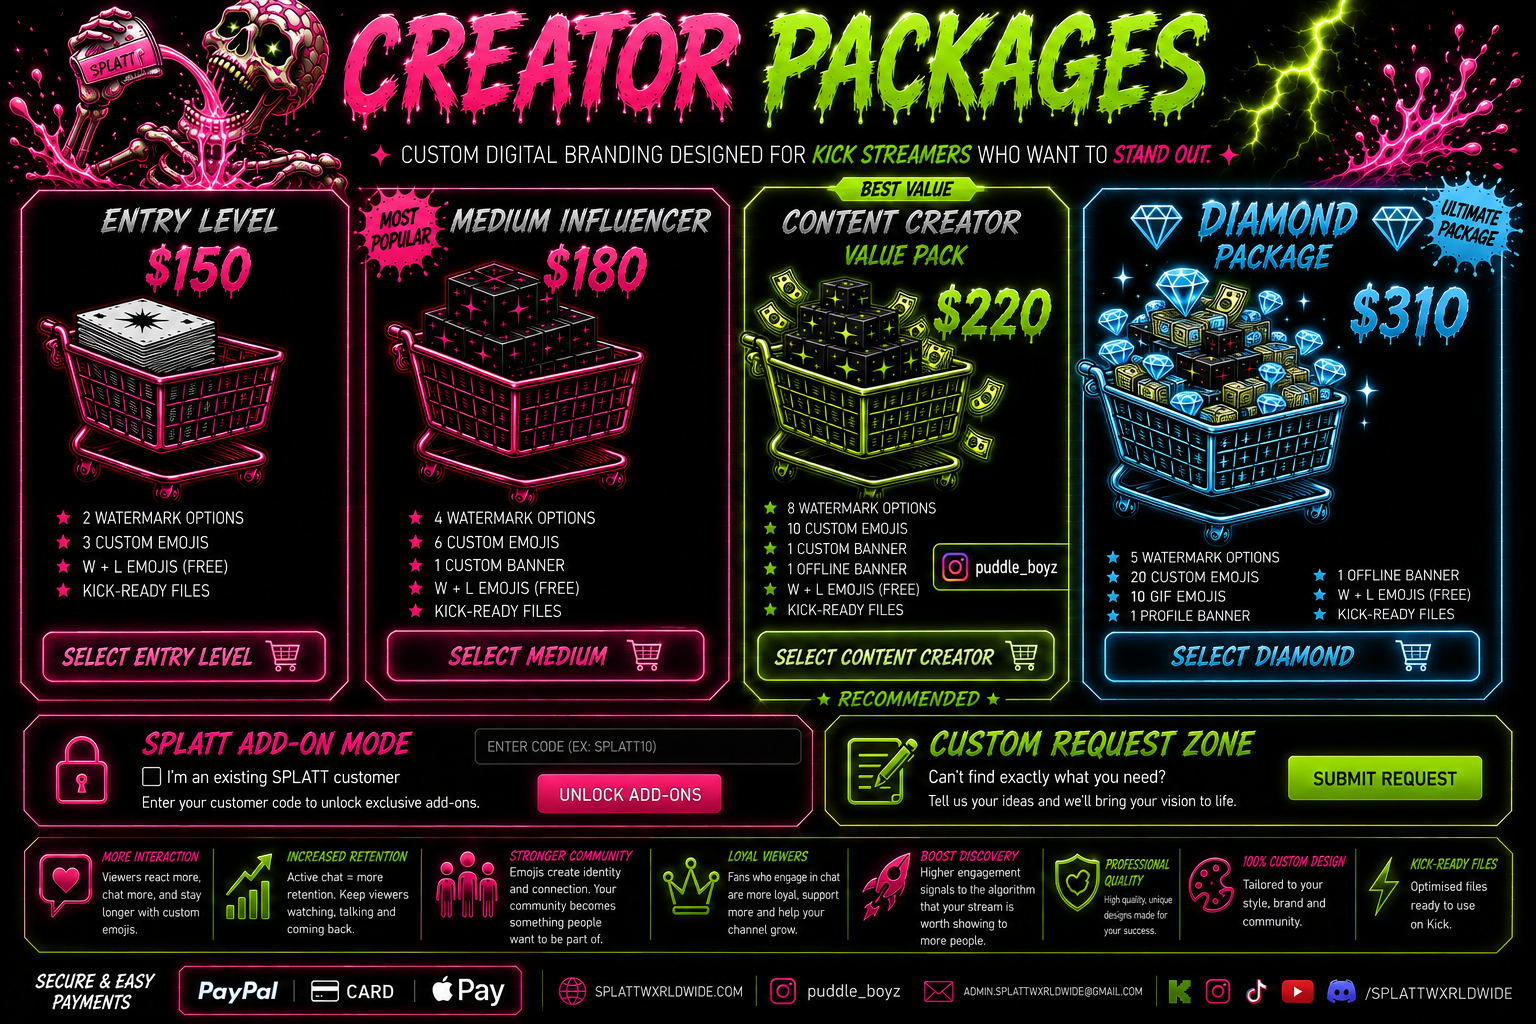
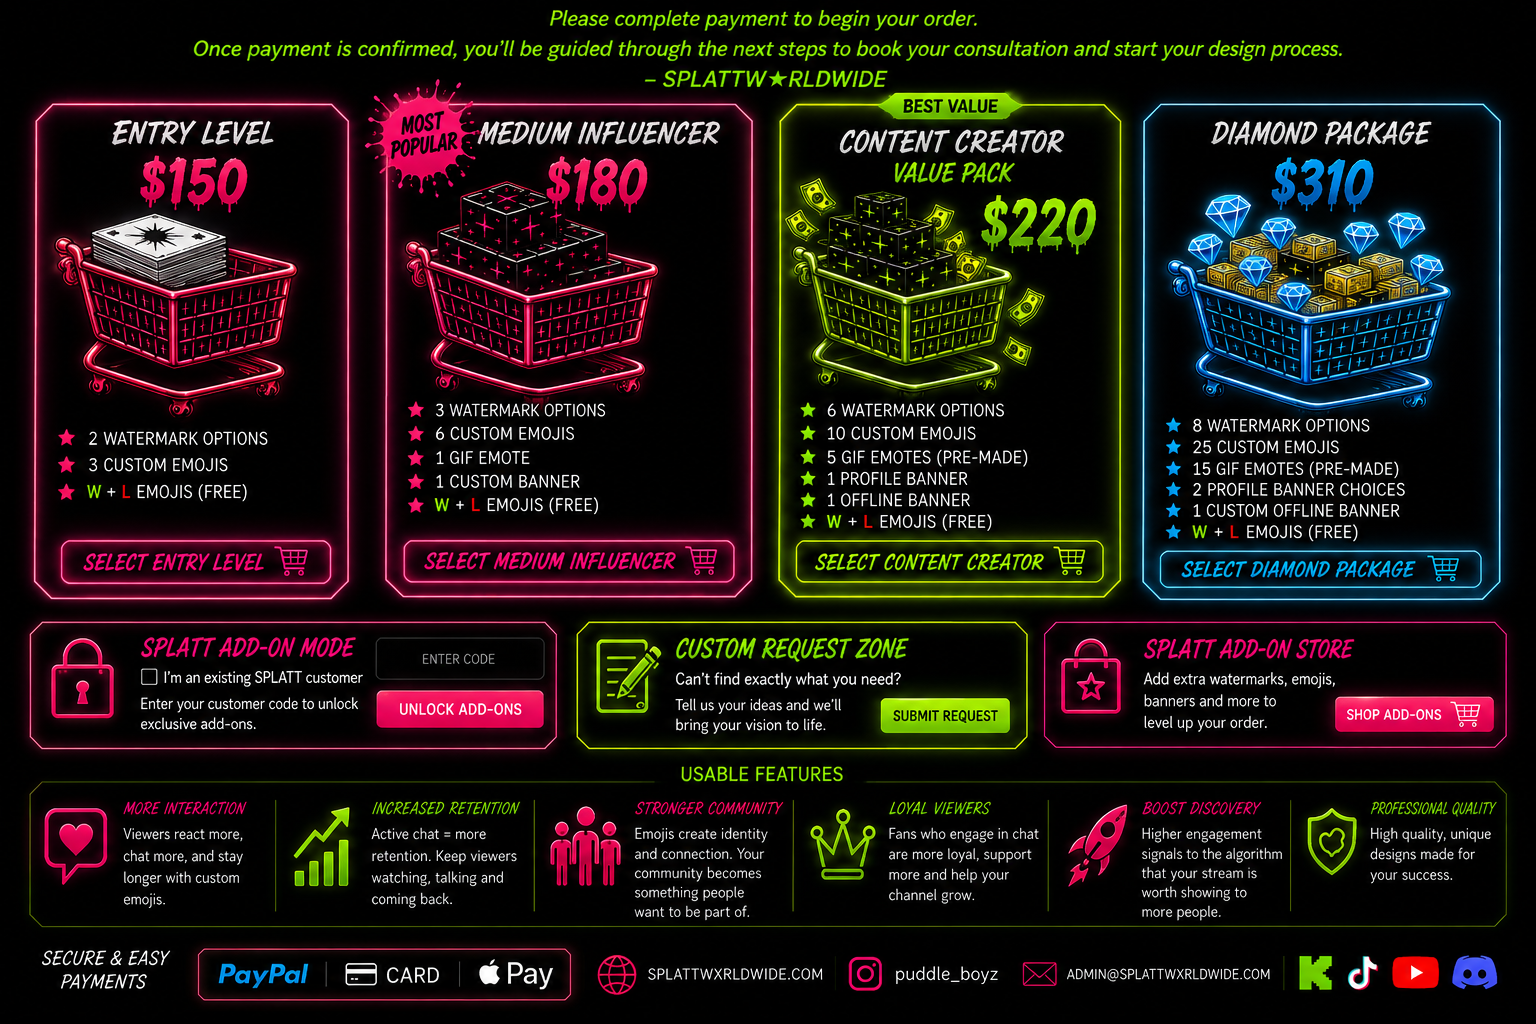
Add files via upload

diff --git a/index.html b/index.html
@@ -11,18 +11,30 @@ body:before{content:"";position:fixed;inset:0;pointer-events:none;opacity:.2;bac
 .wrapper{width:min(1500px,100%);margin:auto;padding:18px 14px 50px}
 .package-stage{position:relative;width:100%;line-height:0;isolation:isolate}
 .package-art{display:block;width:100%;height:auto;object-fit:contain;object-position:center;user-select:none;-webkit-user-drag:none}
-.hotspot{position:absolute;top:21%;height:42%;border:2px solid transparent;border-radius:16px;background:transparent;cursor:pointer;transition:box-shadow .18s ease,background .18s ease,border-color .18s ease,filter .18s ease,transform .18s ease;z-index:3}
+.hotspot{position:absolute;top:10.3%;height:48.4%;border:2px solid transparent;border-radius:16px;background:transparent;cursor:pointer;transition:box-shadow .18s ease,background .18s ease,border-color .18s ease,filter .18s ease,transform .18s ease;z-index:3}
 .hotspot:focus-visible{outline:3px solid #fff;outline-offset:3px}
-.hotspot.entry{left:2.3%;width:23.1%;--accent:var(--pink)}
-.hotspot.medium{left:26.3%;width:23.1%;--accent:var(--pink)}
-.hotspot.creator{left:50.4%;width:23.1%;--accent:var(--green)}
-.hotspot.diamond{left:74.5%;width:23.1%;--accent:var(--blue)}
+.hotspot.entry{left:2.25%;width:20.55%;--accent:var(--pink)}
+.hotspot.medium{left:24.95%;width:24.15%;--accent:var(--pink)}
+.hotspot.creator{left:50.65%;width:22.55%;--accent:var(--green)}
+.hotspot.diamond{left:74.45%;width:23.35%;--accent:var(--blue)}
 .hotspot:hover{border-color:color-mix(in srgb,var(--accent) 60%,transparent);background:color-mix(in srgb,var(--accent) 7%,transparent);box-shadow:0 0 16px var(--accent),0 0 42px color-mix(in srgb,var(--accent) 55%,transparent);filter:brightness(1.08)}
-.hotspot.selected{border-color:var(--accent);background:color-mix(in srgb,var(--accent) 13%,transparent);box-shadow:0 0 14px var(--accent),0 0 35px var(--accent),inset 0 0 28px color-mix(in srgb,var(--accent) 28%,transparent);filter:brightness(1.16);transform:translateY(-2px)}
+.hotspot.selected{border-color:var(--accent);background:color-mix(in srgb,var(--accent) 13%,transparent);box-shadow:0 0 14px var(--accent),0 0 35px var(--accent),inset 0 0 28px color-mix(in srgb,var(--accent) 28%,transparent);filter:brightness(1.16)}
 .hotspot.selected:after{content:"✓ SELECTED";position:absolute;left:50%;bottom:2%;transform:translateX(-50%);padding:9px 13px;border-radius:999px;background:#050505;color:var(--accent);border:1px solid var(--accent);font:bold 12px/1 Arial;white-space:nowrap;box-shadow:0 0 16px var(--accent)}
 .checkout{display:none;margin:20px auto 0;max-width:760px;padding:22px;border:1px solid rgba(255,255,255,.16);border-radius:18px;background:rgba(8,8,8,.94);text-align:center;box-shadow:0 0 30px rgba(255,45,178,.1)}
 .checkout.visible{display:block}.checkout h2{margin:0 0 8px;font-size:clamp(20px,4vw,30px)} .checkout .chosen{color:#ddd;margin-bottom:18px}.payment-row{display:grid;grid-template-columns:repeat(3,1fr);gap:10px}.pay{border:1px solid #555;border-radius:12px;background:#111;color:#fff;padding:14px 10px;font-weight:900;cursor:pointer;transition:.18s}.pay:hover{border-color:var(--green);box-shadow:0 0 16px rgba(57,255,20,.35)}.pay[disabled]{opacity:.45;cursor:not-allowed}.note{font-size:12px;color:#aaa;margin:14px 0 0;line-height:1.5}
-@media(max-width:700px){.wrapper{padding:8px 4px 30px}.hotspot{top:21%;height:42%;border-radius:8px}.hotspot.selected:after{font-size:8px;padding:6px 7px}.payment-row{grid-template-columns:1fr}.checkout{margin:12px 6px 0}}
+@media(max-width:700px){.wrapper{padding:8px 4px 30px}.hotspot{top:10.3%;height:48.4%;border-radius:8px}.hotspot.selected:after{font-size:8px;padding:6px 7px}.payment-row{grid-template-columns:1fr}.checkout{margin:12px 6px 0}}
+
+.overlay-control{position:absolute;z-index:8;font-family:Arial,Helvetica,sans-serif}
+.addon-check{left:9.15%;top:66.55%;width:1.35%;height:2.15%;accent-color:var(--pink);cursor:pointer}
+.addon-code{left:24.45%;top:65.1%;width:10.1%;height:4.05%;border:1px solid rgba(255,45,178,.75);border-radius:6px;background:rgba(0,0,0,.88);color:#fff;padding:0 8px;font-size:clamp(7px,.75vw,12px);outline:none}
+.addon-code:focus{box-shadow:0 0 12px var(--pink);border-color:var(--pink)}
+.overlay-btn{border:1px solid currentColor;border-radius:8px;background:rgba(0,0,0,.18);cursor:pointer;color:#fff;font-weight:900;transition:.18s;line-height:1}
+.overlay-btn:hover,.overlay-btn:focus-visible{filter:brightness(1.25);box-shadow:0 0 18px currentColor;outline:none}
+.unlock-btn{left:35.0%;top:68.25%;width:12.2%;height:4.2%;color:var(--pink);background:rgba(255,45,178,.16)}
+.request-btn{left:57.2%;top:68.3%;width:8.8%;height:4.15%;color:var(--green);background:rgba(57,255,20,.14)}
+.shop-btn{left:87.0%;top:68.3%;width:9.5%;height:4.15%;color:var(--pink);background:rgba(255,45,178,.14)}
+.modal{position:fixed;inset:0;z-index:50;display:none;place-items:center;padding:18px;background:rgba(0,0,0,.82)}.modal.open{display:grid}.modal-card{width:min(620px,100%);max-height:90vh;overflow:auto;background:#090909;border:1px solid var(--green);border-radius:18px;padding:22px;box-shadow:0 0 34px rgba(57,255,20,.25)}.modal-card h2{margin-top:0;color:var(--green)}.form-grid{display:grid;gap:12px}.form-grid input,.form-grid textarea,.form-grid select{width:100%;background:#111;color:#fff;border:1px solid #555;border-radius:9px;padding:12px}.form-grid textarea{min-height:120px;resize:vertical}.modal-actions{display:flex;gap:10px;justify-content:flex-end;margin-top:14px}.modal-actions button{padding:11px 16px;border-radius:9px;border:1px solid #666;background:#151515;color:#fff;cursor:pointer}.modal-actions .primary{border-color:var(--green);color:var(--green)}
+@media(max-width:700px){.addon-code{font-size:5px;padding:0 3px}.overlay-btn{font-size:0}.addon-check{min-width:10px;min-height:10px}}
 </style>
 </head>
 <body>
@@ -33,6 +45,12 @@ body:before{content:"";position:fixed;inset:0;pointer-events:none;opacity:.2;bac
     <button class="hotspot medium" data-name="Medium Influencer" data-price="180" aria-label="Select Medium Influencer package for 180 US dollars"></button>
     <button class="hotspot creator" data-name="Content Creator" data-price="220" aria-label="Select Content Creator package for 220 US dollars"></button>
     <button class="hotspot diamond" data-name="Diamond Package" data-price="310" aria-label="Select Diamond package for 310 US dollars"></button>
+
+    <input class="overlay-control addon-check" id="addonCustomer" type="checkbox" aria-label="I am an existing SPLATT customer">
+    <input class="overlay-control addon-code" id="addonCode" type="text" placeholder="ENTER CODE" aria-label="SPLATT customer code">
+    <button class="overlay-control overlay-btn unlock-btn" id="unlockAddons" aria-label="Unlock add-ons"></button>
+    <button class="overlay-control overlay-btn request-btn" id="customRequest" aria-label="Submit a custom request"></button>
+    <button class="overlay-control overlay-btn shop-btn" id="shopAddons" aria-label="Shop add-ons"></button>
   </section>
 
   <section class="checkout" id="checkout" aria-live="polite">
@@ -46,6 +64,20 @@ body:before{content:"";position:fixed;inset:0;pointer-events:none;opacity:.2;bac
     <p class="note">Secure payment opens after package selection. The questionnaire should be shown only after a verified successful payment.</p>
   </section>
 </main>
+<div class="modal" id="requestModal" role="dialog" aria-modal="true" aria-labelledby="requestTitle">
+  <div class="modal-card">
+    <h2 id="requestTitle">CUSTOM REQUEST ZONE</h2>
+    <form class="form-grid" id="requestForm">
+      <input name="name" required placeholder="Your name / creator name">
+      <input name="email" type="email" required placeholder="Email address">
+      <select name="type" required><option value="">What do you need?</option><option>Watermark</option><option>Emoji</option><option>GIF emote</option><option>Profile banner</option><option>Offline banner</option><option>Other custom design</option></select>
+      <textarea name="details" required placeholder="Describe your idea, colours, style, platform and anything else we should know."></textarea>
+      <input name="reference" placeholder="Optional reference link">
+      <div class="modal-actions"><button type="button" id="closeRequest">Cancel</button><button class="primary" type="submit">Prepare Request</button></div>
+    </form>
+  </div>
+</div>
+
 <script>
 const hotspots=[...document.querySelectorAll('.hotspot')];
 const checkout=document.getElementById('checkout');
@@ -80,6 +112,24 @@ function startCheckout(method){
 document.getElementById('paypalBtn').addEventListener('click',()=>startCheckout('PayPal'));
 document.getElementById('cardBtn').addEventListener('click',()=>startCheckout('Card'));
 document.getElementById('appleBtn').addEventListener('click',()=>startCheckout('Apple Pay'));
+
+
+const addonCustomer=document.getElementById('addonCustomer');
+const addonCode=document.getElementById('addonCode');
+document.getElementById('unlockAddons').addEventListener('click',()=>{
+  if(!addonCustomer.checked){alert('Please confirm you are an existing SPLATT customer.');return;}
+  if(!addonCode.value.trim()){addonCode.focus();alert('Enter your SPLATT customer code to unlock Add-On Mode.');return;}
+  alert('Customer-code verification will activate once the secure customer database is connected. Your code has not been accepted or charged yet.');
+});
+const modal=document.getElementById('requestModal');
+document.getElementById('customRequest').addEventListener('click',()=>modal.classList.add('open'));
+document.getElementById('closeRequest').addEventListener('click',()=>modal.classList.remove('open'));
+modal.addEventListener('click',e=>{if(e.target===modal)modal.classList.remove('open')});
+document.getElementById('requestForm').addEventListener('submit',e=>{e.preventDefault();alert('Your custom request form is ready. The next step is connecting its secure submission destination.');});
+document.getElementById('shopAddons').addEventListener('click',()=>{
+  if(!addonCustomer.checked || !addonCode.value.trim()){alert('Add-On Store is for existing SPLATT customers. Tick the customer box and enter your customer code first.');addonCode.focus();return;}
+  alert('Add-On Store access will open here after customer-code verification is connected.');
+});
 </script>
 </body>
 </html>
